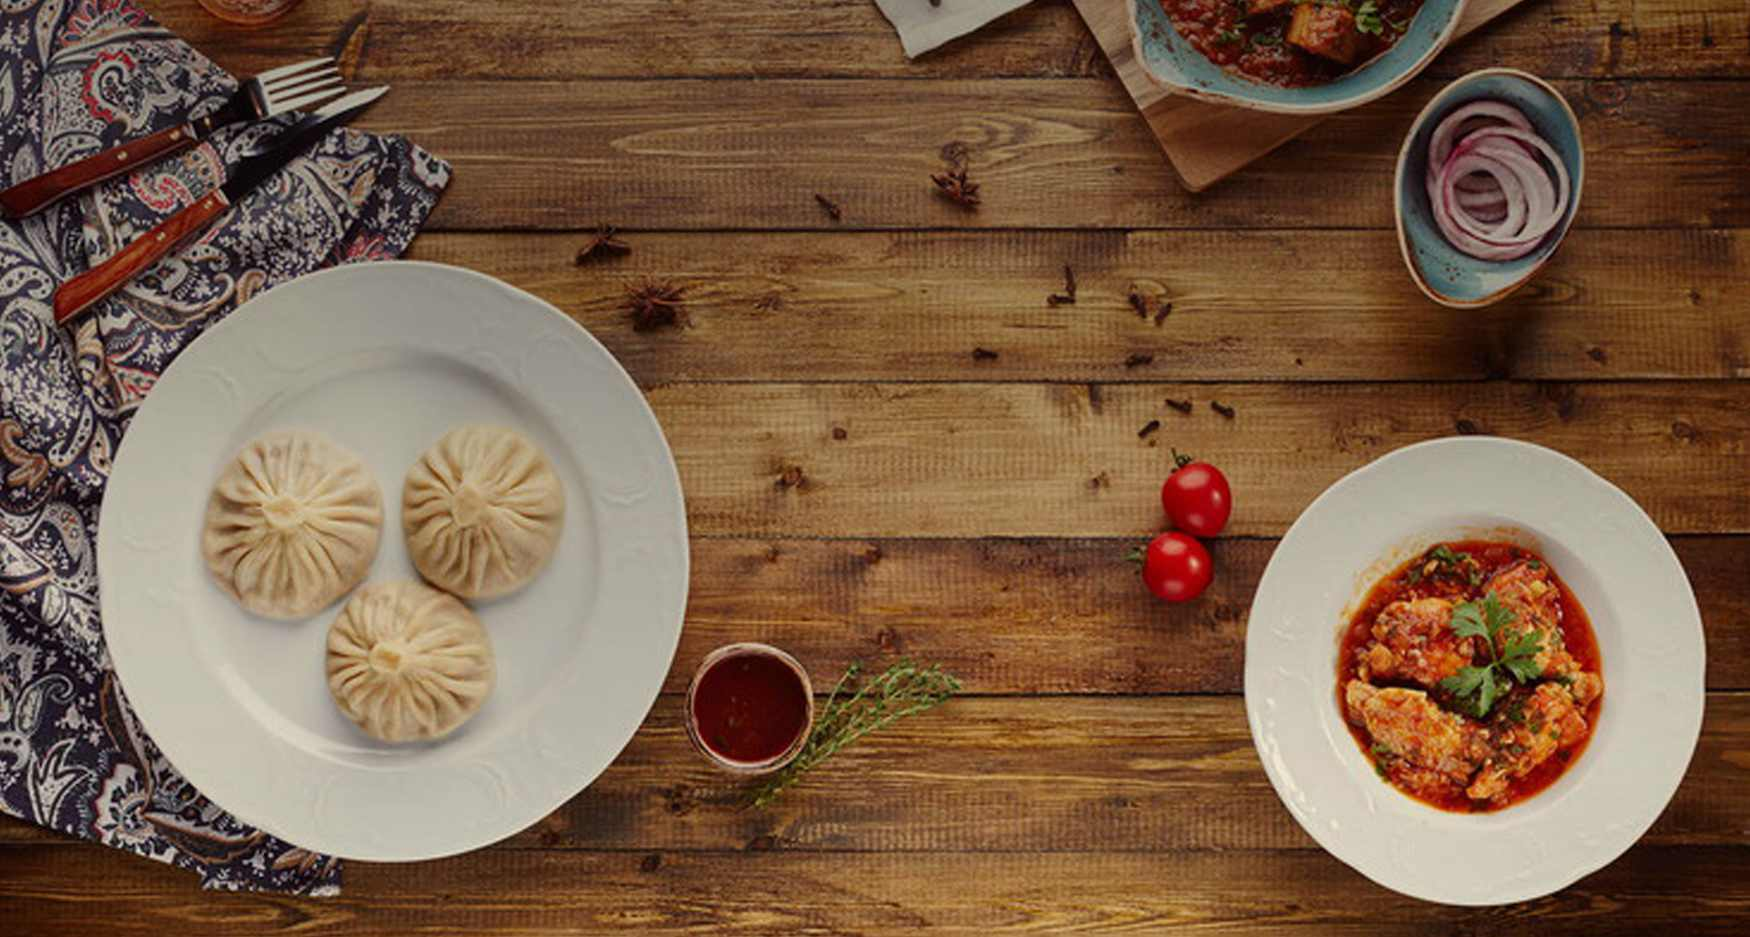
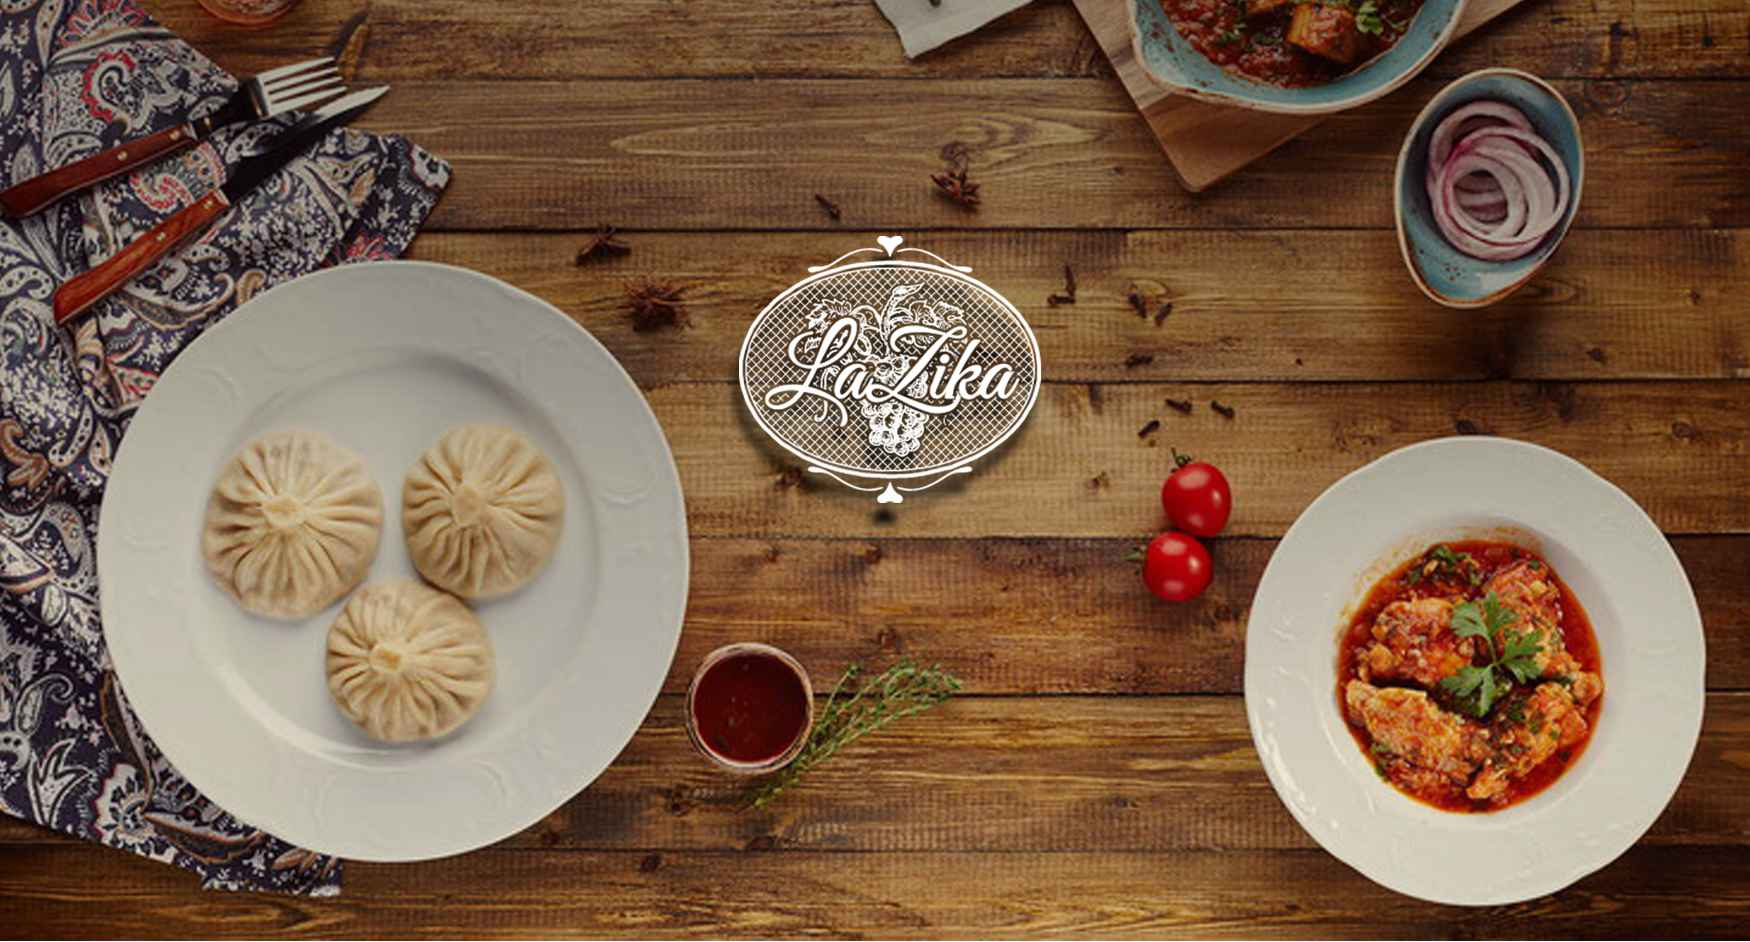
10102016

diff --git a/lazika_landing/index.html b/lazika_landing/index.html
@@ -39,25 +39,108 @@
 	<!-- start Section 1  -->
 
 		<section class="header">
-			<div class="container">
-				<div class="row">
-					<a id="main"></a>
+
+			<a id="main"></a>
 					<nav>
-						<div class="col-md-2"><a href="#main">ГЛАВНАЯ</a></div>
-						<div class="col-md-2"><a href="#about">О РЕСТОРАНЕ </a></div>
-						<div class="col-md-2"><a href="#menu">МЕНЮ</a></div>
-						<div class="col-md-2"><a href="#reservation">Резервация </a></div>
-						<div class="col-md-2"><a href="#promo">АКЦИИ</a></div>
-						<div class="col-md-2"><a href="#contacts">КОНТАКТЫ</a></div>
+						<li><a href="#main">ГЛАВНАЯ</a></li>
+						<li><a href="#about">О РЕСТОРАНЕ </a></li>
+						<li><a href="#menu">МЕНЮ</a></li>
+						<li><a href="#reservation">Резервация </a></li>
+						<li><a href="#promo">АКЦИИ</a></li>
+						<li><a href="#contacts">КОНТАКТЫ</a></li>
 					</nav>
+
+			<div id="myCarousel" class="carousel slide" data-ride="carousel">
+						<!-- Indicators -->
+						<ol class="carousel-indicators">
+							<li data-target="#myCarousel" data-slide-to="0" class="active"></li>
+							<li data-target="#myCarousel" data-slide-to="1"></li>
+							<li data-target="#myCarousel" data-slide-to="2"></li>
+							<li data-target="#myCarousel" data-slide-to="3"></li>
+						</ol>
+						<div class="carousel-inner vertical" role="listbox">
+							<div class="item active">
+								<img class="first-slide img-responsive" src="img/Section_1_Hero-img-1.jpg" alt="First slide">
+								<div class="container">
+									<div class="carousel-caption">
+										<p class="links">
+											<a href="#"><img src="img/Section_1_facebook.png" alt="facebook"></a>
+											<a href="#"><img src="img/Section_1_tweet.png" alt="twitter"></a>
+											<a href="#"><img src="img/Section_1_google.png" alt="google+"></a>
+										</p>
+										<p class="arrow"><a href="#"></a></p>
+									</div>
+								</div>
+							</div>
+							<div class="item">
+								<img class="second-slide" src="img/Section_1_Hero-img-2.jpg" alt="Second slide">
+								<div class="container">
+									<div class="carousel-caption">
+										
+										<p class="links">
+											<a href="#"><img src="img/Section_1_facebook.png" alt="facebook"></a>
+											<a href="#"><img src="img/Section_1_tweet.png" alt="twitter"></a>
+											<a href="#"><img src="img/Section_1_google.png" alt="google+"></a>
+										</p>
+										<p class="arrow"><a href="#"></a></p>
+									</div>
+								</div>
+							</div>
+							<div class="item">
+								<img class="third-slide" src="img/Section_1_Hero-img-1.jpg" alt="Third slide">
+								<div class="container">
+									<div class="carousel-caption">
+										
+										<p class="links">
+											<a href="#"><img src="img/Section_1_facebook.png" alt="facebook"></a>
+											<a href="#"><img src="img/Section_1_tweet.png" alt="twitter"></a>
+											<a href="#"><img src="img/Section_1_google.png" alt="google+"></a>
+										</p>
+										<p class="arrow"><a href="#"></a></p>
+									</div>
+								</div>
+							</div>
+							<div class="item">
+								<img class="third-slide" src="img/Section_1_Hero-img-2.jpg" alt="Third slide">
+								<div class="container">
+									<div class="carousel-caption">
+										
+										<p class="links">
+											<a href="#"><img src="img/Section_1_facebook.png" alt="facebook"></a>
+											<a href="#"><img src="img/Section_1_tweet.png" alt="twitter"></a>
+											<a href="#"><img src="img/Section_1_google.png" alt="google+"></a>
+										</p>
+										<p class="arrow"><a href="#"></a></p>
+									</div>
+								</div>
+							</div>
+						</div>
+						<!-- <a class="left carousel-control" href="#myCarousel" role="button" data-slide="prev">
+							<span class="glyphicon glyphicon-chevron-left" aria-hidden="true"></span>
+							<span class="sr-only">Previous</span>
+						</a>
+						<a class="right carousel-control" href="#myCarousel" role="button" data-slide="next">
+							<span class="glyphicon glyphicon-chevron-right" aria-hidden="true"></span>
+							<span class="sr-only">Next</span>
+						</a> -->
 				</div>
+
+			
+
+
+			<div class="container">
+				
 				<div class="row">
-					<div class="col-xs-12">
+					<!-- <div class="col-xs-12">
 						<p class="logo">
 							<img src="img/Section_1_logo.png" alt="logotype">
 						</p>
-					</div>
-				</div>
+					</div> -->
+
+					
+
+
+<!-- 				</div>
 				<div class="row">
 					<div class="col-xs-12">
 						<p class="links">
@@ -67,6 +150,7 @@
 						</p>
 					</div>
 				</div>
+				
 				<div class="row">
 					<div class="col-xs-12">
 						<p class="arrow">
@@ -74,7 +158,7 @@
 						</div>
 					</div>
 				</div>
-				
+				 -->
 			</div>
 	
 		</section>
@@ -103,9 +187,9 @@
 				</div>
 			</div>
 			<div class="row rombs">
-				<div class="col-md-4"><span class="romb romb1"></span></div>
-				<div class="col-md-4"><span class="romb romb2"></span></div>
-				<div class="col-md-4"><span class="romb romb3"></span></div>
+				<div class="col-md-4 col-sm-6 col-xs-12 romb_column"><span class="romb romb1"></span></div>
+				<div class="col-md-4 col-sm-6 col-xs-12 romb_column"><span class="romb romb2"></span></div>
+				<div class="col-md-4 col-sm-6 col-xs-12 romb_column"><span class="romb romb3"></span></div>
 			</div>
 			<div class="col-md-12">
 

diff --git a/lazika_landing/css/main.css b/lazika_landing/css/main.css
@@ -34,8 +34,8 @@ p {
 }
 
 .wrap {
-	max-width: 1750px;
-	margin: 0 auto;
+	max-width: 100%;
+	margin: -22px auto 0;
 }
 h2 {
 	text-align: center;
@@ -56,15 +56,128 @@ span.symbol {
 }
 
 
-/**  Section 1  **/
+/** carousel    **/
 
-section.header {
-	background: url(../img/Section_1_Hero-img-1.jpg) no-repeat top center;
-	padding-top: 48px;
-	padding-bottom: 64px;
-	min-height: 937px;
+.carousel-inner.vertical {
+  height: 100%;
+}
+.carousel-inner.vertical > .item {
+  -webkit-transition: .6s ease-in-out top;
+  -o-transition: .6s ease-in-out top;
+  transition: .6s ease-in-out top;
+}
+@media all and (transform-3d),
+(-webkit-transform-3d) {
+  .carousel-inner.vertical > .item {
+    -webkit-transition: -webkit-transform .6s ease-in-out;
+    -o-transition: -o-transform .6s ease-in-out;
+    transition: transform .6s ease-in-out;
+    -webkit-backface-visibility: hidden;
+    backface-visibility: hidden;
+    -webkit-perspective: 1000;
+    perspective: 1000;
+  }
+  .carousel-inner.vertical > .item.next,
+  .carousel-inner.vertical > .item.active.right {
+    top: 0;
+    -webkit-transform: translate3d(0, 100%, 0);
+    transform: translate3d(0, 100%, 0);
+  }
+  .carousel-inner.vertical > .item.prev,
+  .carousel-inner.vertical > .item.active.left {
+    top: 0;
+    -webkit-transform: translate3d(0, -100%, 0);
+    transform: translate3d(0, -100%, 0);
+  }
+  .carousel-inner.vertical > .item.next.left,
+  .carousel-inner.vertical > .item.prev.right,
+  .carousel-inner.vertical > .item.active {
+    top: 0;
+    -webkit-transform: translate3d(0, 0, 0);
+    transform: translate3d(0, 0, 0);
+  }
+}
+.carousel-inner.vertical > .active {
+  top: 0;
+}
+.carousel-inner.vertical > .next,
+.carousel-inner.vertical > .prev {
+  top: 0;
+  height: 100%;
+  width: 100%;
+}
+.carousel-inner.vertical > .next {
+  left: 0;
+  top: 100%;
+}
+.carousel-inner.vertical > .prev {
+  left: 0;
+  top: -100%
+}
+.carousel-inner.vertical > .next.left,
+.carousel-inner.vertical > .prev.right {
+  top: 0;
+}
+.carousel-inner.vertical > .active.left {
+  left: 0;
+  top: -100%;
+}
+.carousel-inner.vertical > .active.right {
+  left: 0;
+  top: 100%;
+}
+.carousel-indicators {
+	left: 128%;
+	right: 1%;
+	width: 1%;
+	bottom: 50%;
+}
+.carousel-indicators li {
+	display: block;
+	margin-bottom: 10px;
+}
+.carousel-indicators li.active {
+	display: block;
+	margin-bottom: 10px;
 }
 
+
+
+
+/*                    */
+
+
+
+
+
+/**  Section 1  **/
+
+
+
+section.header {
+	/*background: url(../img/Section_1_Hero-img-1.jpg) no-repeat top center;*/
+	/*padding-top: 48px;*/
+	padding-bottom: 64px;
+}
+#myCarousel {
+	z-index: 10;
+}
+section.header nav {
+	position: relative;
+	top: 50px;
+	left: 50px;
+	display: block;
+	max-width: 1171px;
+	margin: 0 auto;
+	z-index: 1000;
+}
+
+section.header nav li {
+	list-style-type: none;
+	display: inline-block;
+	float: left;
+
+}
 section.header nav a {
 	color: #fff;
 	font-family: "LucidaSansUnicodeRegular";
@@ -74,12 +187,20 @@ section.header nav a {
 	text-transform: uppercase;
 	padding: 12px 26px;
 	transition: all 0.5s ease;
+	margin-left: 20px;
 }
 section.header nav a:hover {
 	text-decoration: none;
 	border: 2px solid white;
 	border-radius: 10px;
 }
+
+.img-responsive, .thumbnail > img, .thumbnail a > img, .carousel-inner > .item > img, .carousel-inner > .item > a > img {
+    width: 100%;
+    max-height: 937px;
+}
+
+
 section.header .logo {
 	margin-top: 147px;
 	margin-bottom: 47px;
@@ -250,7 +371,7 @@ section.about .menu-food span.meat {
 
 }
 section.about .menu-food span.salad {
-	background: url(../img/Section_2_icon-salad.svg) no-repeat center center;
+	background: url(../img/Section_2_salad.png) no-repeat center center;
 	background-size: 50%;
 }
 section.about .menu-food span.drink {

diff --git a/lazika_landing/css/media.css b/lazika_landing/css/media.css
@@ -2,28 +2,51 @@
 
 /* Large Devices, Wide Screens */
 @media only screen and (max-width : 1200px) {
-
+	
+}
+@media only screen and (max-width : 1100px) {
+	section.about .content-box__elements_left_half,
+	section.about .content-box__elements_right_half {
+	display: block;
+	height: 100%;
+}
 }
 
 /* Medium Devices, Desktops */
 @media only screen and (max-width : 992px) {
-
+	.wrap .header div#myCarousel {
+		top: -22px;
+	}
+	.arrow {
+		display: none;
+	}
+	.about .romb_column {
+    margin: 0 auto 100px;
+}
 }
 
 /* Small Devices, Tablets */
 @media only screen and (max-width : 768px) {
-	
+.about .romb_column {
+    margin: 0 auto 100px;
+}
 
 }
 
 /* Extra Small Devices, Phones */
 @media only screen and (max-width : 480px) {
-
+	.wrap {
+		max-width: 100%;
+		margin: -44px auto 0;
+	}
+	section.about {
+	padding-top: 0px;
+}
 }
 
 /* Custom, iPhone Retina */
 @media only screen and (max-width : 320px) {
-
+	
 }
 
 
@@ -41,7 +64,7 @@
 
 /* Small Devices, Tablets */
 @media only screen and (min-width : 768px) {
-
+	
 }
 
 /* Medium Devices, Desktops */

diff --git a/lazika_landing/js/common.js b/lazika_landing/js/common.js
@@ -112,4 +112,4 @@ function smoothScroll(duration) {
         });
     }
 
-
+$("#myCarousel").carousel("pause");
